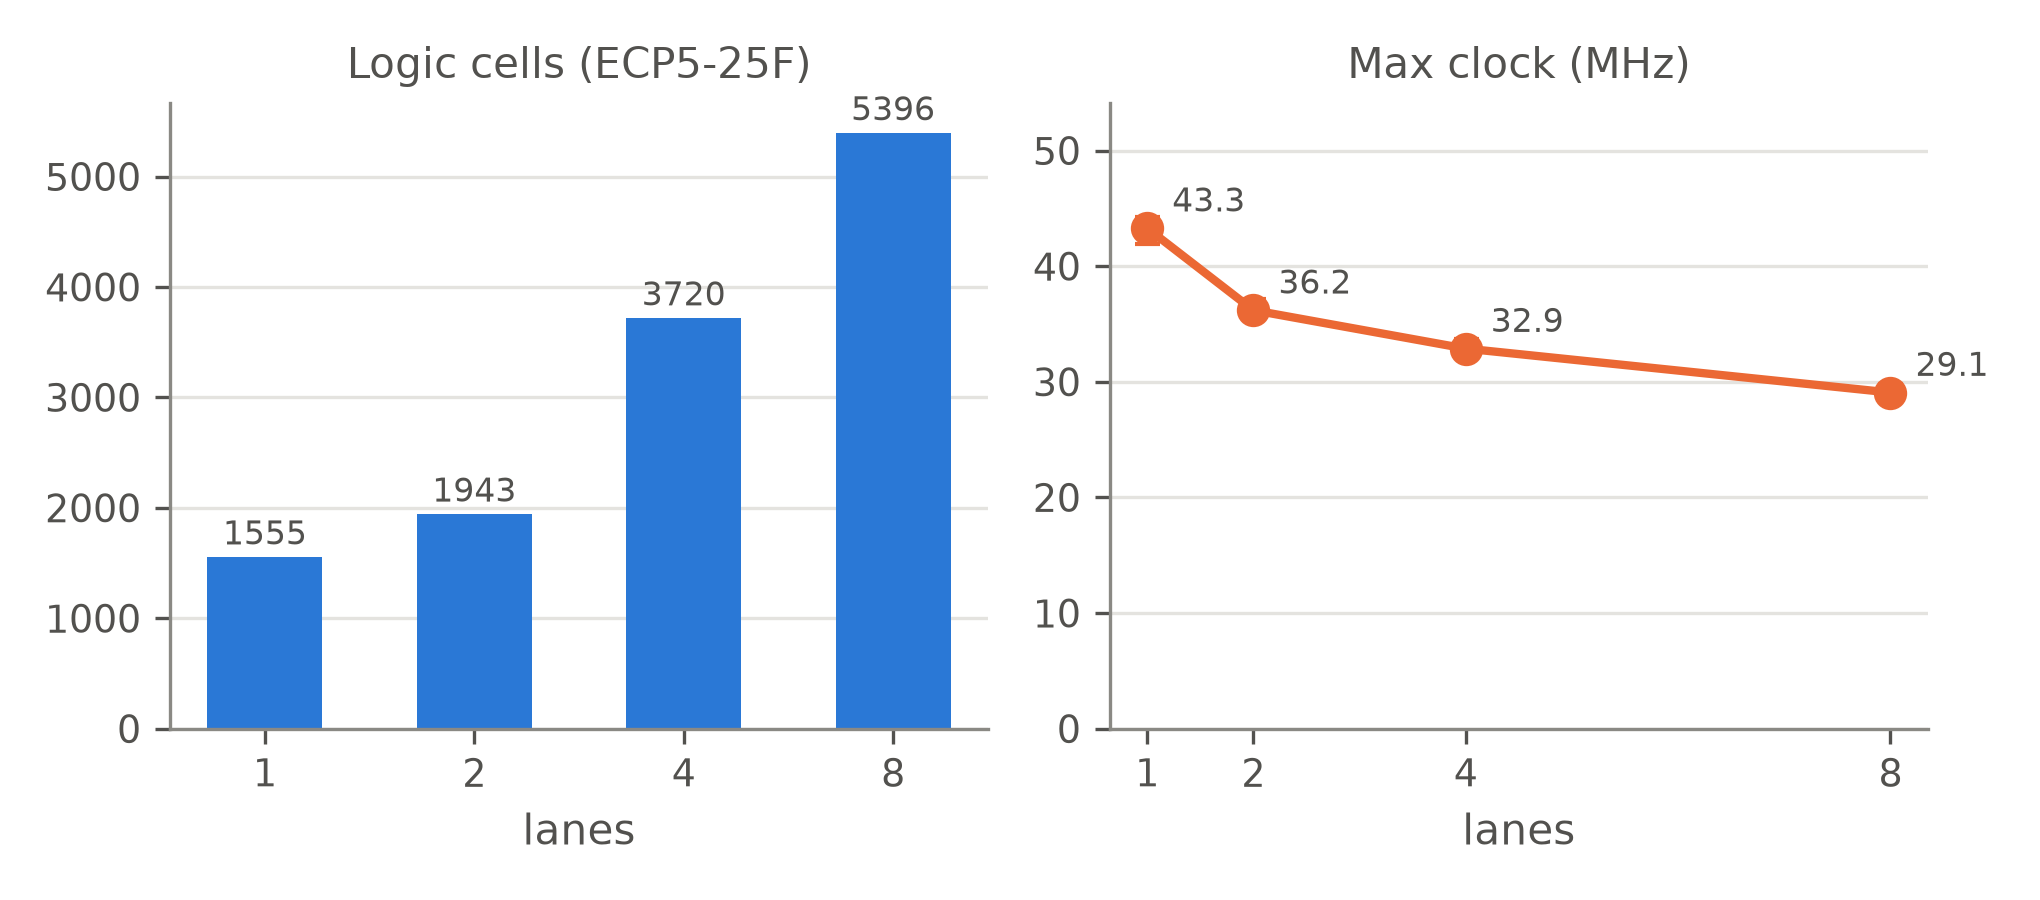
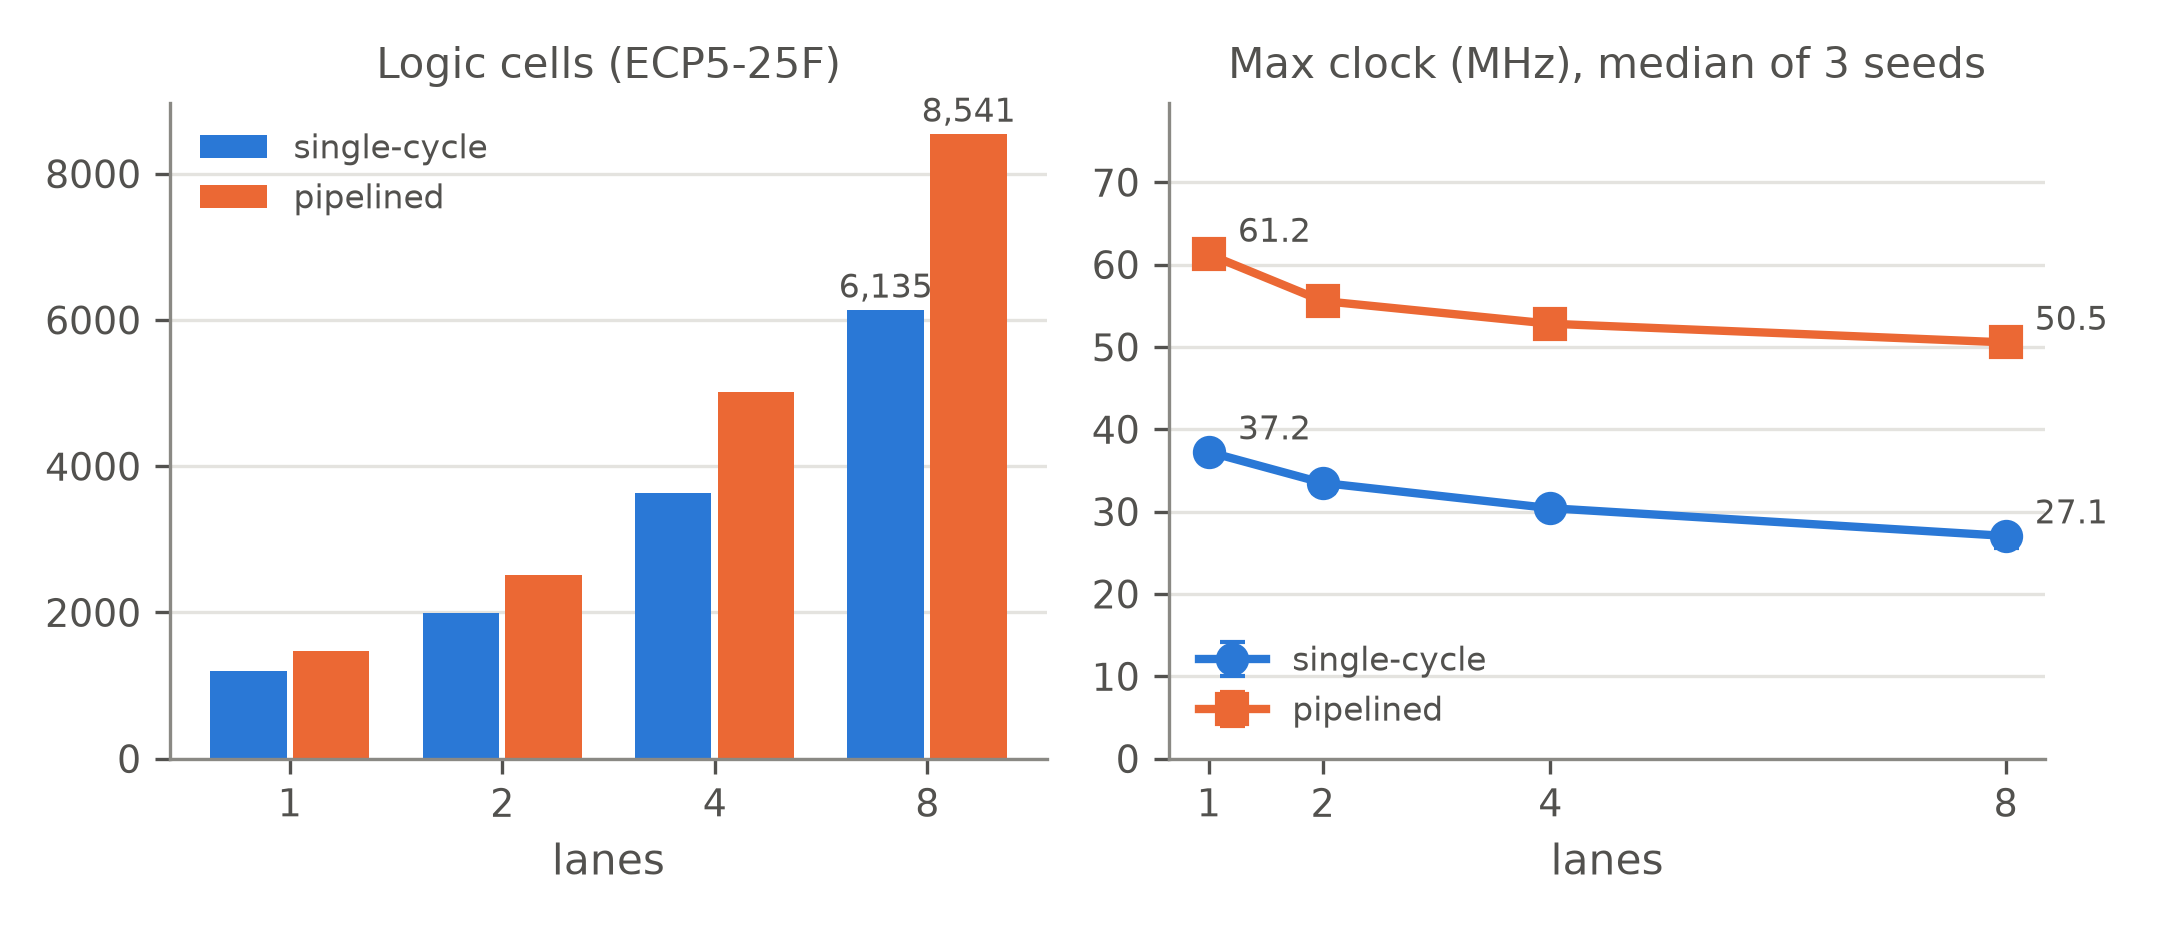
feat(syn): scaling figure for both cores

diff --git a/syn/plot_fpga.py b/syn/plot_fpga.py
@@ -1,13 +1,16 @@
 """
-plot_fpga.py - how the FPGA cost and clock speed change with the lane count.
+plot_fpga.py - how the FPGA cost and clock speed change with the lane count,
+for both cores.
 
 Reads results/fpga_ecp5.csv (from run_syn.py) and draws two small charts
 side by side in results/figures/fpga_scaling.png:
-  left : logic cells used (ECP5-25F)
+  left : logic cells used (ECP5-25F), single-cycle and pipelined side by side
   right: maximum clock frequency, median of the seeds, with the min-max range
 
 They are two separate charts on purpose: cells and MHz are different units,
-so they should not share one axis.
+so they should not share one axis. The single-cycle core is always blue and
+the pipelined core always orange, with different marker shapes too, so the
+two can be told apart without colour.
 
 Usage:  uv run --python 3.12 --with matplotlib python syn/plot_fpga.py
 """
@@ -20,7 +23,9 @@ matplotlib.use("Agg")
 import matplotlib.pyplot as plt  # noqa: E402
 
 ROOT = Path(__file__).resolve().parent.parent
-BLUE, ORANGE, GREY, INK = "#2a78d6", "#eb6834", "#8a8984", "#52514e"
+GREY, INK, GRID = "#8a8984", "#52514e", "#e4e3df"
+CORES = [("single", "single-cycle", "#2a78d6", "o"),     # name, label, colour, marker
+         ("pipe", "pipelined", "#eb6834", "s")]
 
 
 def style(ax):
@@ -29,38 +34,50 @@ def style(ax):
     ax.spines["left"].set_color(GREY)
     ax.spines["bottom"].set_color(GREY)
     ax.tick_params(colors=INK, labelsize=9)
-    ax.grid(axis="y", color="#e4e3df", linewidth=0.8)
+    ax.grid(axis="y", color=GRID, linewidth=0.8)
     ax.set_axisbelow(True)
 
 
 def main():
     with open(ROOT / "results" / "fpga_ecp5.csv") as f:
         rows = list(csv.DictReader(f))
-    lanes = [int(r["lanes"]) for r in rows]
-    cells = [int(r["logic_cells"]) for r in rows]
-    fmax = [float(r["fmax_mhz_median"]) for r in rows]
-    low = [f - float(r["fmax_mhz_min"]) for f, r in zip(fmax, rows)]
-    high = [float(r["fmax_mhz_max"]) - f for f, r in zip(fmax, rows)]
+    by_core = {name: [r for r in rows if r["core"] == name] for name, *_ in CORES}
+    lanes = [int(r["lanes"]) for r in by_core["single"]]
 
-    fig, (left, right) = plt.subplots(1, 2, figsize=(6.8, 3.0))
+    fig, (left, right) = plt.subplots(1, 2, figsize=(7.2, 3.1))
 
-    left.bar([str(n) for n in lanes], cells, width=0.55, color=BLUE)
-    for i, c in enumerate(cells):
-        left.annotate(f"{c}", (i, c), textcoords="offset points", xytext=(0, 3),
-                      ha="center", color=INK, fontsize=8)
+    # ---- Left: logic cells, two bars per lane count -------------------------
+    width = 0.36
+    for k, (name, label, colour, _) in enumerate(CORES):
+        cells = [int(r["logic_cells"]) for r in by_core[name]]
+        xs = [i + (k - 0.5) * (width + 0.03) for i in range(len(lanes))]   # small gap between bars
+        left.bar(xs, cells, width=width, color=colour, label=label)
+        # Label only the 8-lane bars: the headline numbers.
+        left.annotate(f"{cells[-1]:,}", (xs[-1], cells[-1]), textcoords="offset points",
+                      xytext=(0, 3), ha="center", color=INK, fontsize=8)
+    left.set_xticks(range(len(lanes)), [str(n) for n in lanes])
     left.set_title("Logic cells (ECP5-25F)", color=INK, fontsize=10)
     left.set_xlabel("lanes", color=INK)
+    left.legend(frameon=False, fontsize=8, labelcolor=INK, loc="upper left")
     style(left)
 
-    right.errorbar(lanes, fmax, yerr=[low, high], marker="o", markersize=7, color=ORANGE,
-                   linewidth=2, capsize=3)
-    for n, f in zip(lanes, fmax):
-        right.annotate(f"{f:.1f}", (n, f), textcoords="offset points", xytext=(6, 4),
-                       color=INK, fontsize=8)
-    right.set_title("Max clock (MHz)", color=INK, fontsize=10)
+    # ---- Right: Fmax, one line per core ----------------------------------------
+    top = 0.0
+    for name, label, colour, marker in CORES:
+        fmax = [float(r["fmax_mhz_median"]) for r in by_core[name]]
+        low = [f - float(r["fmax_mhz_min"]) for f, r in zip(fmax, by_core[name])]
+        high = [float(r["fmax_mhz_max"]) - f for f, r in zip(fmax, by_core[name])]
+        right.errorbar(lanes, fmax, yerr=[low, high], marker=marker, markersize=7,
+                       color=colour, linewidth=2, capsize=3, label=label)
+        for n, f in ((lanes[0], fmax[0]), (lanes[-1], fmax[-1])):
+            right.annotate(f"{f:.1f}", (n, f), textcoords="offset points", xytext=(7, 3),
+                           color=INK, fontsize=8)
+        top = max(top, max(fmax))
+    right.set_title("Max clock (MHz), median of 3 seeds", color=INK, fontsize=10)
     right.set_xlabel("lanes", color=INK)
     right.set_xticks(lanes)
-    right.set_ylim(0, max(fmax) * 1.25)
+    right.set_ylim(0, top * 1.3)
+    right.legend(frameon=False, fontsize=8, labelcolor=INK, loc="lower left")
     style(right)
 
     fig.tight_layout()
